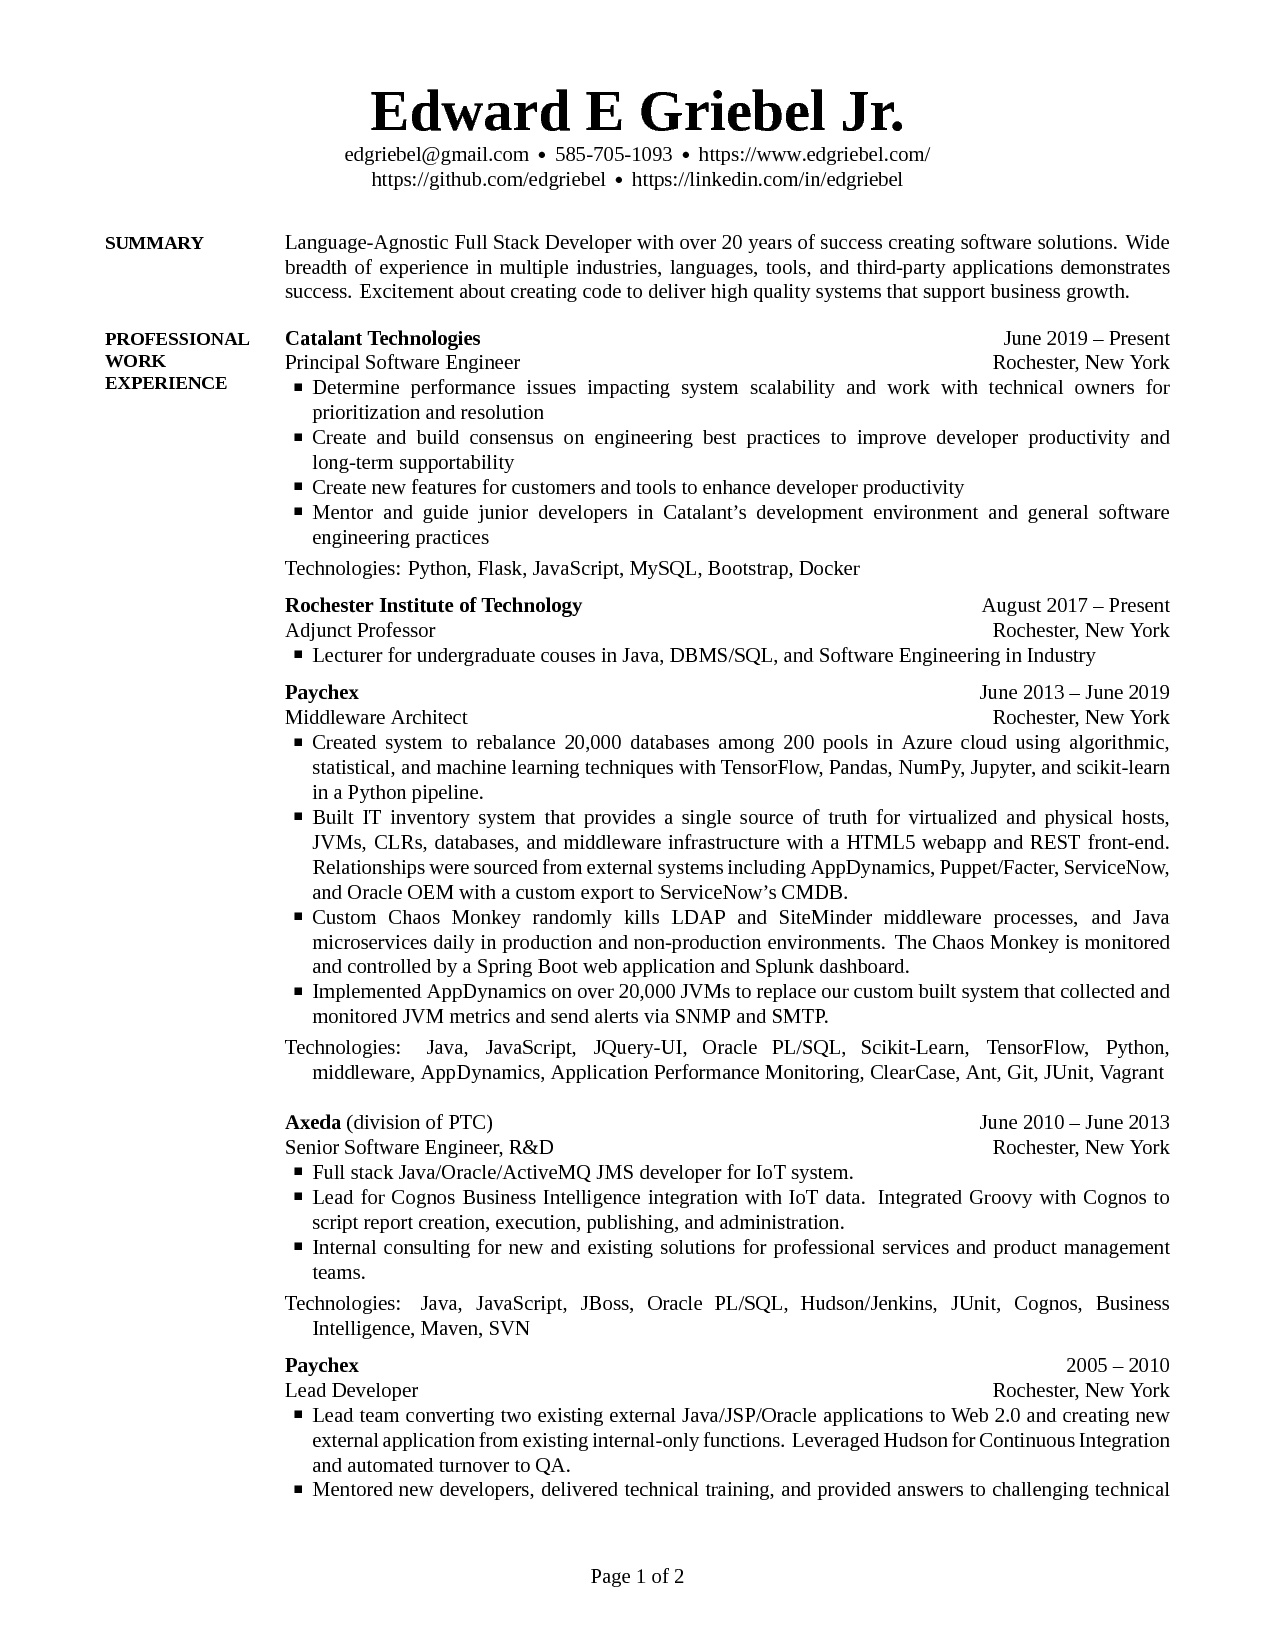
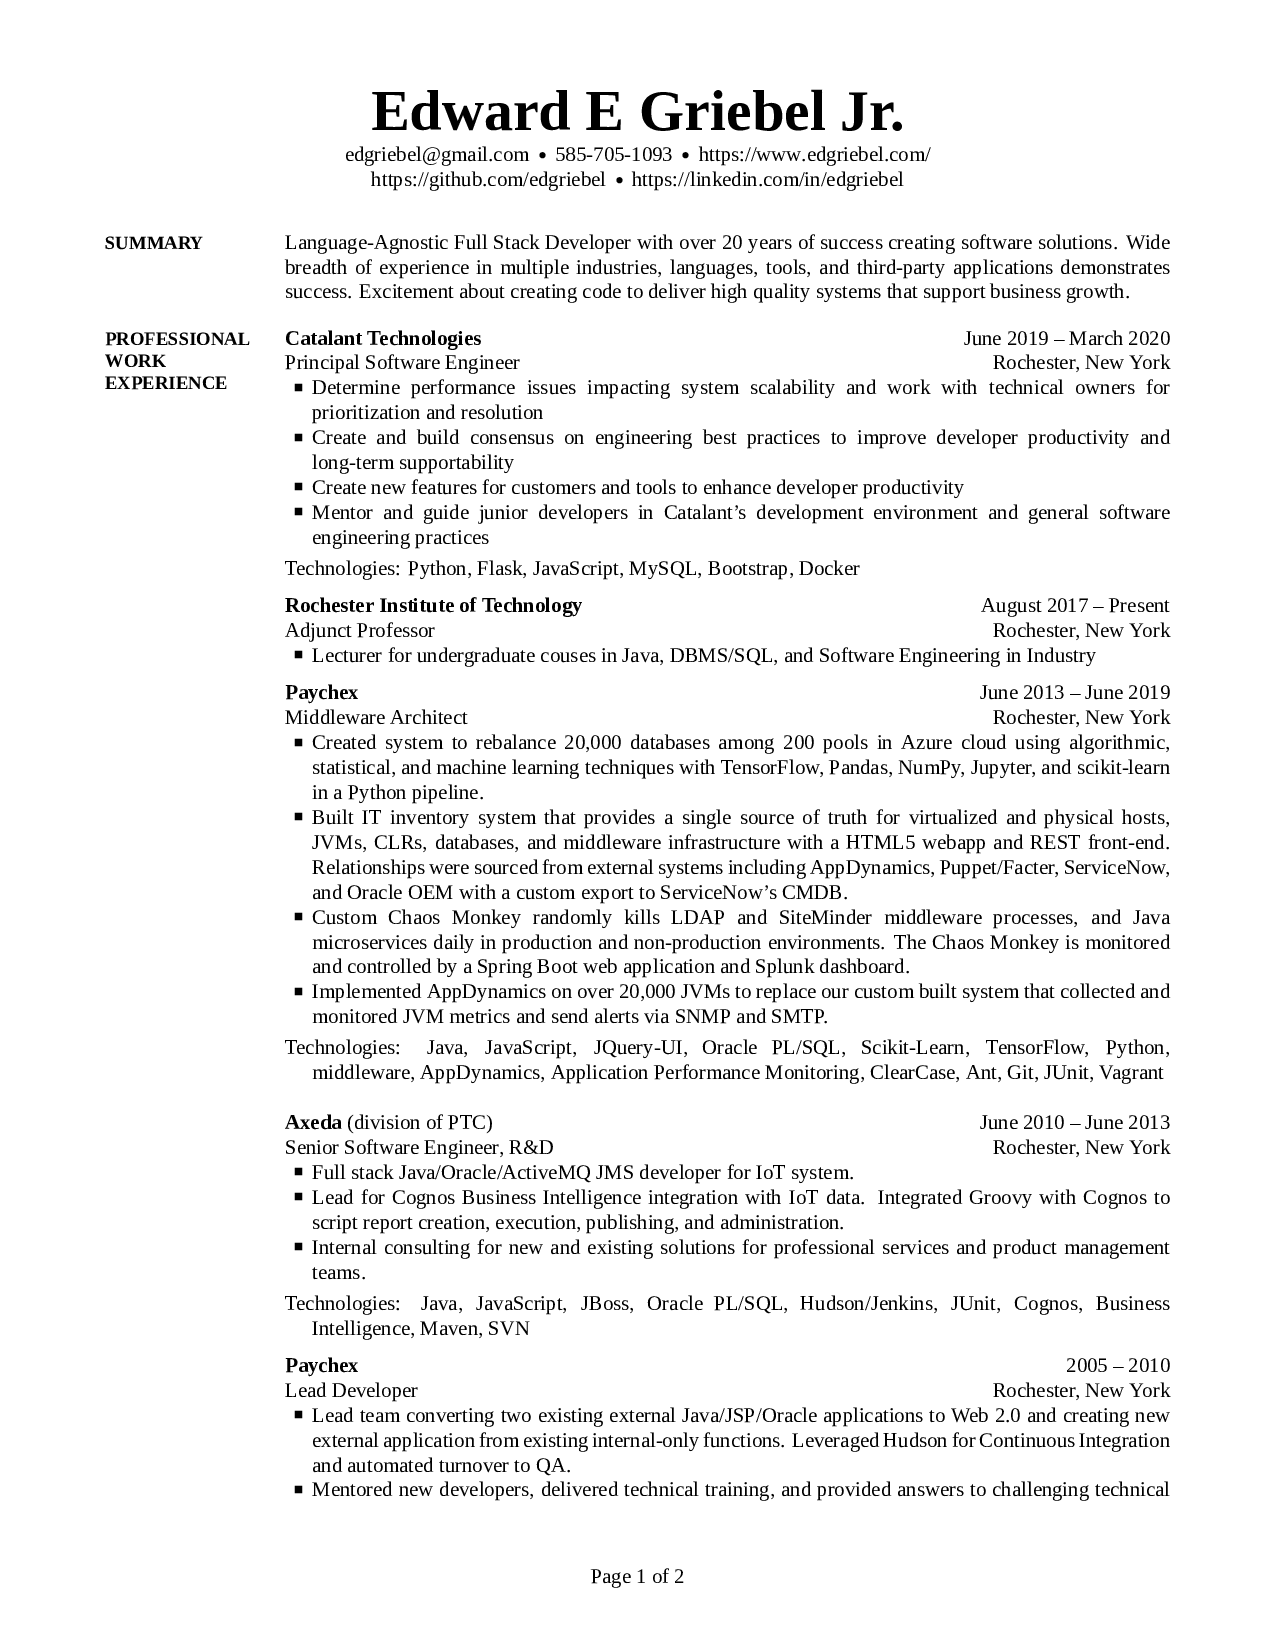
Add end date for Catalant

diff --git a/Ed_Griebel_CV.tex b/Ed_Griebel_CV.tex
@@ -116,7 +116,7 @@ Work Experience}
 \href{http://www.gocatalant.com}
 {\textbf{Catalant Technologies}}
 \hfill
-\DatestampYM{2019}{06} -- Present
+\DatestampYM{2019}{06} -- \DatestampYM{2020}{03}
 
 Principal Software Engineer
 \hfill
